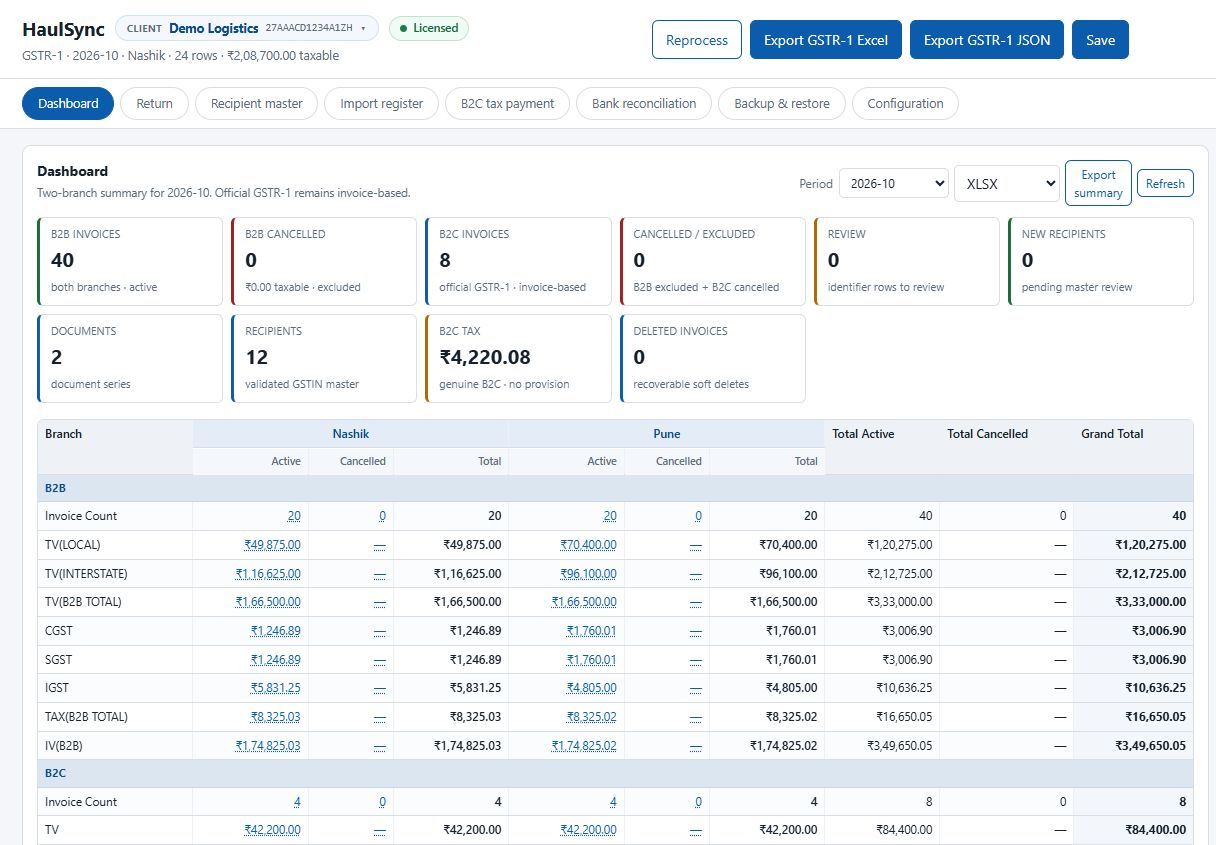
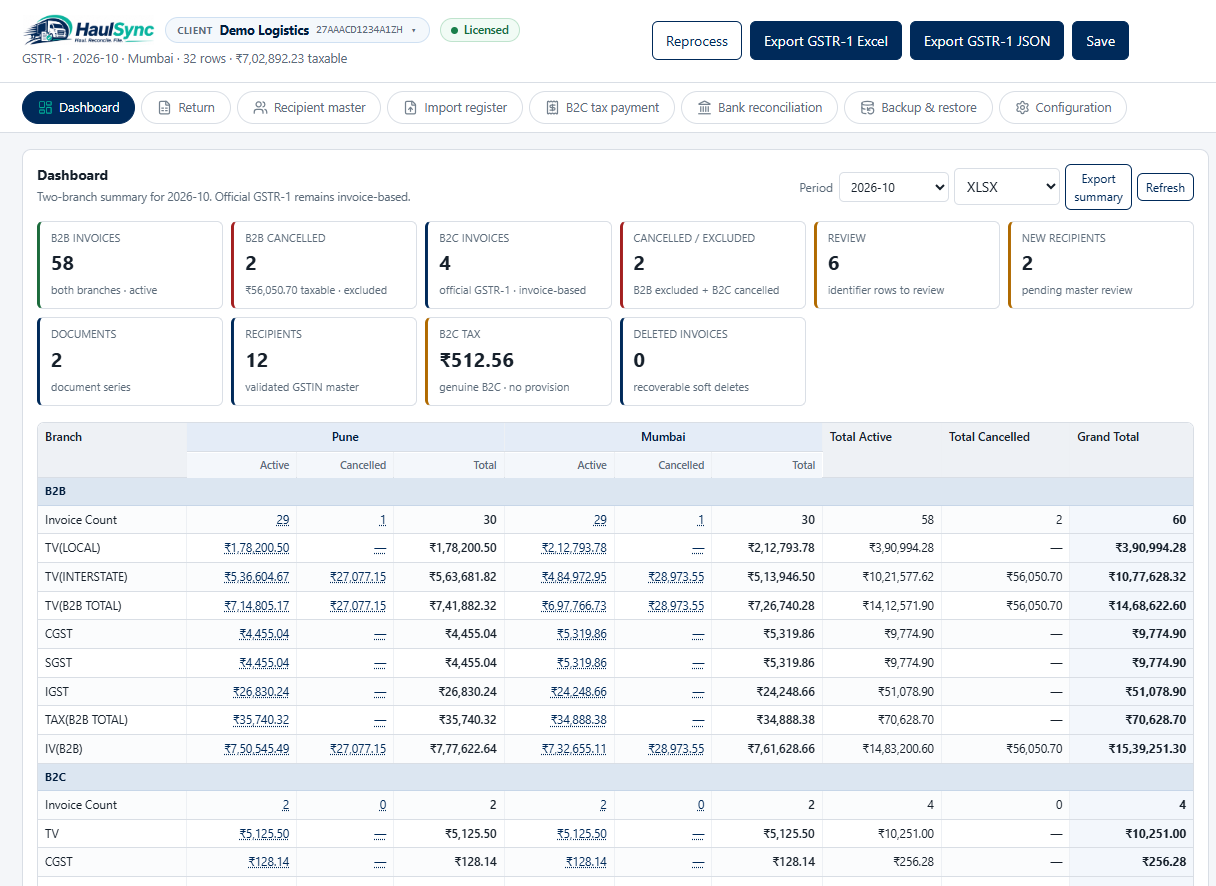
HaulSync 1.1.1 landing page with new branding

diff --git a/index.html b/index.html
@@ -8,82 +8,92 @@
 <meta property="og:title" content="HaulSync — GTA client work, kept separate">
 <meta property="og:description" content="Recipients, GSTR-1, bank reconciliation and backups for every GTA client, isolated and organised. Annual and monthly licenses.">
 <meta property="og:type" content="website">
-<meta property="og:image" content="assets/haulsync-dashboard.png">
-<link rel="icon" href="assets/favicon.svg" type="image/svg+xml">
+<meta property="og:image" content="https://yaiz2702.github.io/haulsync-releases/assets/haulsync-dashboard.png">
+<meta property="og:url" content="https://yaiz2702.github.io/haulsync-releases/">
+<meta name="theme-color" content="#002A5A">
+<link rel="icon" type="image/png" sizes="32x32" href="assets/favicon-32.png">
+<link rel="icon" type="image/png" sizes="16x16" href="assets/favicon-16.png">
+<link rel="apple-touch-icon" href="assets/apple-touch-icon.png">
 <style>
-:root{--ink:#17232f;--muted:#5c6b7a;--line:#d8e1ea;--soft:#f4f8fc;--accent:#1f6fb2;--accent-dark:#185d96;--good:#1a7f4b;--bg:#f4f7fb}
+:root{--navy:#002A5A;--teal:#00B098;--teal-dark:#008f7d;--ink:#22384d;--muted:#5f7183;--line:#dbe5ee;--soft:#f5f9fb;--accent:#002A5A;--accent-dark:#001c3d;--good:#1a7f4b;--bg:#f4f8fb}
 *{box-sizing:border-box}
 html{scroll-behavior:smooth}
 body{margin:0;background:var(--bg);color:var(--ink);font:15px/1.6 "Segoe UI",system-ui,-apple-system,sans-serif}
-a{color:var(--accent)}
+a{color:var(--teal-dark)}
 img{max-width:100%;height:auto}
 .wrap{max-width:1100px;margin:0 auto;padding:0 22px}
-header.pub{background:#17232f;color:#fff;padding:14px 0;position:sticky;top:0;z-index:20;box-shadow:0 1px 0 rgba(255,255,255,.06)}
+header.pub{background:#fff;border-bottom:1px solid var(--line);padding:13px 0;position:sticky;top:0;z-index:20}
 header.pub .wrap{display:flex;align-items:center;justify-content:space-between;gap:16px}
-.brand{font-size:20px;font-weight:700;letter-spacing:.01em;text-decoration:none;color:#fff}
-.brand span{color:#8fc3ef}
+.brand{display:inline-block;line-height:0}
+.brand-logo{display:block;height:38px;width:auto}
 nav.pub{display:flex;align-items:center;gap:18px;font-size:13px}
-nav.pub a{color:#c9d6e2;text-decoration:none}
-nav.pub a:hover{color:#fff}
+nav.pub a{color:var(--muted);text-decoration:none;font-weight:600}
+nav.pub a:hover{color:var(--navy)}
 .hero{padding:56px 0 20px}
 .hero-grid{display:grid;grid-template-columns:1.05fr .95fr;gap:40px;align-items:center}
-.pill{display:inline-block;background:#e8f2fc;color:#1b5f99;border:1px solid #c6ddf2;border-radius:999px;padding:4px 12px;font-size:12px;font-weight:600;margin-bottom:16px}
-h1{font-size:42px;line-height:1.1;margin:0 0 14px;letter-spacing:-.025em}
+.pill{display:inline-block;background:#e6faf7;color:#007a6a;border:1px solid #b8ebe2;border-radius:999px;padding:4px 12px;font-size:12px;font-weight:600;margin-bottom:16px}
+h1{font-size:42px;line-height:1.1;margin:0 0 14px;letter-spacing:-.025em;color:var(--navy)}
 .hero p.lead{font-size:17px;color:var(--muted);margin:0;max-width:560px}
 .hero-actions{display:flex;flex-wrap:wrap;gap:10px;margin-top:24px}
 .trust{display:flex;flex-wrap:wrap;gap:14px 22px;margin-top:18px;color:var(--muted);font-size:12.5px}
-.trust span::before{content:"✓";color:var(--good);font-weight:700;margin-right:6px}
-.shot{background:#fff;border:1px solid var(--line);border-radius:14px;padding:10px;box-shadow:0 18px 50px rgba(23,35,47,.14)}
+.trust span::before{content:"✓";color:var(--teal);font-weight:700;margin-right:6px}
+.shot{background:#fff;border:1px solid var(--line);border-radius:14px;padding:10px;box-shadow:0 18px 50px rgba(0,42,90,.14)}
 .shot img{display:block;border-radius:9px;border:1px solid #e6edf4}
 .shot figcaption{font-size:11.5px;color:var(--muted);text-align:center;padding:8px 4px 2px}
-.btn{display:inline-block;border:0;border-radius:8px;padding:11px 20px;font-size:14px;font-weight:600;cursor:pointer;text-decoration:none;background:var(--accent);color:#fff}
-.btn:hover{background:var(--accent-dark)}
-.btn.ghost{background:#fff;color:var(--accent);border:1px solid #b9d7f3}
-.btn.ghost:hover{background:#f2f8fe}
+.btn{display:inline-block;border:0;border-radius:8px;padding:11px 20px;font-size:14px;font-weight:600;cursor:pointer;text-decoration:none;background:var(--teal);color:#fff}
+.btn:hover{background:var(--teal-dark)}
+.btn.ghost{background:#fff;color:var(--navy);border:1px solid #c8d8e6}
+.btn.ghost:hover{background:var(--soft);border-color:var(--teal);color:#007a6a}
 .btn.large{padding:13px 24px;font-size:15px}
 section{padding:26px 0}
-.section-title{font-size:12px;letter-spacing:.09em;text-transform:uppercase;color:var(--muted);font-weight:700;margin:0 0 10px}
-h2{font-size:27px;line-height:1.2;margin:0 0 8px;letter-spacing:-.015em}
+.section-title{font-size:12px;letter-spacing:.09em;text-transform:uppercase;color:var(--teal-dark);font-weight:700;margin:0 0 10px}
+h2{font-size:27px;line-height:1.2;margin:0 0 8px;letter-spacing:-.015em;color:var(--navy)}
 .sub{color:var(--muted);margin:0 0 22px;max-width:720px}
 .grid{display:grid;grid-template-columns:repeat(auto-fit,minmax(280px,1fr));gap:16px}
-.card{background:#fff;border:1px solid var(--line);border-radius:12px;padding:22px;box-shadow:0 1px 2px rgba(23,35,47,.04)}
-.card h3{font-size:16px;margin:0 0 6px}
+.card{background:#fff;border:1px solid var(--line);border-radius:12px;padding:22px;box-shadow:0 1px 2px rgba(0,42,90,.04)}
+.card h3{font-size:16px;margin:0 0 6px;color:var(--navy)}
 .card p{margin:0;color:var(--muted);font-size:13.5px}
-.icon{width:38px;height:38px;border-radius:9px;background:#e8f2fc;color:#1b5f99;display:flex;align-items:center;justify-content:center;font-weight:700;margin-bottom:12px;font-size:15px}
+.icon{width:38px;height:38px;border-radius:9px;background:#e6faf7;color:#007a6a;display:flex;align-items:center;justify-content:center;margin-bottom:12px}
+.icon svg{width:19px;height:19px}
 .steps{display:grid;grid-template-columns:repeat(auto-fit,minmax(240px,1fr));gap:16px;counter-reset:step}
 .step{background:#fff;border:1px solid var(--line);border-radius:12px;padding:20px;position:relative}
-.step::before{counter-increment:step;content:counter(step);position:absolute;top:-12px;left:18px;width:26px;height:26px;border-radius:50%;background:var(--accent);color:#fff;font-size:13px;font-weight:700;display:flex;align-items:center;justify-content:center}
-.step h3{margin:8px 0 4px;font-size:15px}
+.step::before{counter-increment:step;content:counter(step);position:absolute;top:-12px;left:18px;width:26px;height:26px;border-radius:50%;background:var(--teal);color:#fff;font-size:13px;font-weight:700;display:flex;align-items:center;justify-content:center}
+.step h3{margin:8px 0 4px;font-size:15px;color:var(--navy)}
 .step p{margin:0;color:var(--muted);font-size:13px}
 .plans{display:grid;grid-template-columns:repeat(auto-fit,minmax(300px,1fr));gap:16px;margin-top:6px}
-.plan{background:#fff;border:1px solid #b9d7f3;border-radius:14px;padding:26px;position:relative;box-shadow:0 8px 30px rgba(31,111,178,.08)}
+.plan{background:#fff;border:1px solid #cfe8e4;border-top:3px solid var(--teal);border-radius:14px;padding:26px;position:relative;box-shadow:0 8px 30px rgba(0,42,90,.07)}
 .plan .badge{position:absolute;top:18px;right:18px;background:#e5f6ec;color:#136b3c;border-radius:999px;padding:3px 10px;font-size:10.5px;font-weight:700;letter-spacing:.04em;text-transform:uppercase}
-.plan h3{margin:0 0 4px;font-size:18px}
+.plan h3{margin:0 0 4px;font-size:18px;color:var(--navy)}
 .plan .desc{color:var(--muted);font-size:13px;margin:0}
-.price{font-size:38px;font-weight:700;letter-spacing:-.02em;margin:14px 0 2px}
+.price{font-size:38px;font-weight:700;letter-spacing:-.02em;margin:14px 0 2px;color:var(--navy)}
 .price small{font-size:14px;font-weight:400;color:var(--muted)}
 .plan ul{margin:14px 0 22px;padding-left:18px;color:var(--muted);font-size:13.5px}
 .plan li{margin:6px 0}
-.download-box{background:var(--soft);border:1px solid #cfe0ef;border-radius:10px;padding:18px;margin-top:14px}
+.download-box{background:var(--soft);border:1px solid #cfe8e4;border-radius:10px;padding:18px;margin-top:14px}
 .download-box p{margin:6px 0}
+.download-head{display:flex;align-items:center;gap:14px;margin:4px 0 12px}
+.download-head p{margin:2px 0}
+.app-icon{width:60px;height:60px;border-radius:12px;flex:0 0 auto}
 .checksum{font-family:Consolas,ui-monospace,monospace;font-size:11px;word-break:break-all;color:var(--muted)}
 .faq details{background:#fff;border:1px solid var(--line);border-radius:10px;padding:14px 18px;margin-bottom:10px}
-.faq summary{cursor:pointer;font-weight:600;font-size:14px}
+.faq summary{cursor:pointer;font-weight:600;font-size:14px;color:var(--navy)}
 .faq p{margin:8px 0 0;color:var(--muted);font-size:13.5px}
 footer.pub{border-top:1px solid var(--line);margin-top:36px;padding:24px 0 40px;color:var(--muted);font-size:12.5px}
 footer.pub .wrap{display:flex;flex-wrap:wrap;justify-content:space-between;gap:14px}
 footer.pub a{color:var(--muted);text-decoration:none;margin-right:16px}
-footer.pub a:hover{color:var(--accent)}
-.notice{border:1px solid #c6ddf2;background:#eef7ff;color:#174a74;border-radius:8px;padding:12px 14px;margin:14px 0;font-size:13px}
+footer.pub a:hover{color:var(--navy)}
+.footer-brand{display:inline-flex;align-items:center;gap:7px;color:var(--navy);font-weight:600}
+.footer-brand img{border-radius:4px}
+.notice{border:1px solid #b8ebe2;background:#f0fbf8;color:#075e55;border-radius:8px;padding:12px 14px;margin:14px 0;font-size:13px}
 .notice.warn{border-color:#f0d7a8;background:#fff8e9;color:#6b4b12}
 @media(max-width:860px){.hero-grid{grid-template-columns:1fr;gap:26px}h1{font-size:34px}.hero{padding-top:38px}}
-@media(max-width:620px){h1{font-size:30px}h2{font-size:23px}nav.pub a:not(.btn){display:none}.price{font-size:32px}}
+@media(max-width:620px){h1{font-size:30px}h2{font-size:23px}nav.pub a:not(.btn){display:none}.price{font-size:32px}.brand-logo{height:31px}}
 </style>
 </head>
 <body>
 <header class="pub">
   <div class="wrap">
-    <a class="brand" href="#">Haul<span>Sync</span></a>
+    <a class="brand" href="#" aria-label="HaulSync"><img class="brand-logo" src="assets/wordmark.png" alt="HaulSync"></a>
     <nav class="pub">
       <a href="#features">Features</a>
       <a href="#pricing">Pricing</a>
@@ -111,7 +121,7 @@ footer.pub a:hover{color:var(--accent)}
         </div>
       </div>
       <figure class="shot" style="margin:0">
-        <img src="assets/haulsync-dashboard.png" alt="HaulSync dashboard showing a demo client's recipients, runs and reconciliation summary" width="1216" height="845">
+        <img src="assets/haulsync-dashboard.png" alt="HaulSync dashboard showing a demo client's recipients, runs and reconciliation summary" width="1216" height="886">
         <figcaption>Demo data shown. Your clients stay on your computer.</figcaption>
       </figure>
     </div>
@@ -123,12 +133,12 @@ footer.pub a:hover{color:var(--accent)}
       <h2>One tool for the work you repeat every month</h2>
       <p class="sub">Stop juggling folders, spreadsheets and last month's copy. HaulSync keeps the routine in one place and each client's data apart.</p>
       <div class="grid">
-        <div class="card"><div class="icon">1</div><h3>Client isolation by design</h3><p>Each client has a separate database and folder. Recipients, runs, settings, bank data and backups never cross between clients.</p></div>
-        <div class="card"><div class="icon">2</div><h3>GSTR-1 without retyping</h3><p>Validated recipient master, invoice series and the official workbook template. Corrections and alternate names are reused next month.</p></div>
-        <div class="card"><div class="icon">3</div><h3>Bank reconciliation</h3><p>Upload text-based bank PDFs, match receipts to invoices, review exceptions and keep a clear transaction trail per client.</p></div>
-        <div class="card"><div class="icon">4</div><h3>Backups that stay local</h3><p>Per-client backups and restores, plus exports. Expired licenses still allow backup, restore and export.</p></div>
-        <div class="card"><div class="icon">5</div><h3>Archive, never delete</h3><p>Finished with a client? Archive the folder and restore it later. HaulSync keeps the data instead of hard-deleting it.</p></div>
-        <div class="card"><div class="icon">6</div><h3>Simple licensing</h3><p>One license covers unlimited clients on one computer. Activate online, work offline for 14 days, renew any time.</p></div>
+        <div class="card"><div class="icon"><svg viewBox="0 0 24 24" fill="none" stroke="currentColor" stroke-width="2" stroke-linecap="round" stroke-linejoin="round" aria-hidden="true"><path d="M20 13c0 5-3.5 7.5-7.66 8.95a1 1 0 0 1-.67-.01C7.5 20.5 4 18 4 13V6a1 1 0 0 1 1-1c2 0 4.5-1.2 6.24-2.72a1.17 1.17 0 0 1 1.52 0C14.51 3.81 17 5 19 5a1 1 0 0 1 1 1z"/><path d="m9 12 2 2 4-4"/></svg></div><h3>Client isolation by design</h3><p>Each client has a separate database and folder. Recipients, runs, settings, bank data and backups never cross between clients.</p></div>
+        <div class="card"><div class="icon"><svg viewBox="0 0 24 24" fill="none" stroke="currentColor" stroke-width="2" stroke-linecap="round" stroke-linejoin="round" aria-hidden="true"><path d="M6 22a2 2 0 0 1-2-2V4a2 2 0 0 1 2-2h8a2.4 2.4 0 0 1 1.704.706l3.588 3.588A2.4 2.4 0 0 1 20 8v12a2 2 0 0 1-2 2z"/><path d="M14 2v5a1 1 0 0 0 1 1h5"/><path d="M8 13h2"/><path d="M14 13h2"/><path d="M8 17h2"/><path d="M14 17h2"/></svg></div><h3>GSTR-1 without retyping</h3><p>Validated recipient master, invoice series and the official workbook template. Corrections and alternate names are reused next month.</p></div>
+        <div class="card"><div class="icon"><svg viewBox="0 0 24 24" fill="none" stroke="currentColor" stroke-width="2" stroke-linecap="round" stroke-linejoin="round" aria-hidden="true"><path d="M10 18v-7"/><path d="M11.119 2.205a2 2 0 0 1 1.762 0l7.84 3.846A.5.5 0 0 1 20.5 7h-17a.5.5 0 0 1-.22-.949z"/><path d="M14 18v-7"/><path d="M18 18v-7"/><path d="M3 22h18"/><path d="M6 18v-7"/></svg></div><h3>Bank reconciliation</h3><p>Upload text-based bank PDFs, match receipts to invoices, review exceptions and keep a clear transaction trail per client.</p></div>
+        <div class="card"><div class="icon"><svg viewBox="0 0 24 24" fill="none" stroke="currentColor" stroke-width="2" stroke-linecap="round" stroke-linejoin="round" aria-hidden="true"><ellipse cx="12" cy="5" rx="9" ry="3"/><path d="M3 12a9 3 0 0 0 5 2.69"/><path d="M21 9.3V5"/><path d="M3 5v14a9 3 0 0 0 6.47 2.88"/><path d="M12 12v4h4"/><path d="M13 20a5 5 0 0 0 9-3 4.5 4.5 0 0 0-4.5-4.5c-1.33 0-2.54.54-3.41 1.41L12 16"/></svg></div><h3>Backups that stay local</h3><p>Per-client backups and restores, plus exports. Expired licenses still allow backup, restore and export.</p></div>
+        <div class="card"><div class="icon"><svg viewBox="0 0 24 24" fill="none" stroke="currentColor" stroke-width="2" stroke-linecap="round" stroke-linejoin="round" aria-hidden="true"><rect width="20" height="5" x="2" y="3" rx="1"/><path d="M4 8v11a2 2 0 0 0 2 2h12a2 2 0 0 0 2-2V8"/><path d="M10 12h4"/></svg></div><h3>Archive, never delete</h3><p>Finished with a client? Archive the folder and restore it later. HaulSync keeps the data instead of hard-deleting it.</p></div>
+        <div class="card"><div class="icon"><svg viewBox="0 0 24 24" fill="none" stroke="currentColor" stroke-width="2" stroke-linecap="round" stroke-linejoin="round" aria-hidden="true"><path d="M2.586 17.414A2 2 0 0 0 2 18.828V21a1 1 0 0 0 1 1h3a1 1 0 0 0 1-1v-1a1 1 0 0 1 1-1h1a1 1 0 0 0 1-1v-1a1 1 0 0 1 1-1h.172a2 2 0 0 0 1.414-.586l.814-.814a6.5 6.5 0 1 0-4-4z"/><circle cx="16.5" cy="7.5" r=".5" fill="currentColor"/></svg></div><h3>Simple licensing</h3><p>One license covers unlimited clients on one computer. Activate online, work offline for 14 days, renew any time.</p></div>
       </div>
     </div>
   </section>
@@ -187,12 +197,15 @@ footer.pub a:hover{color:var(--accent)}
       <h2>Install HaulSync for Windows</h2>
       <p class="sub">The installer is per-user and does not need an administrator account. It installs the app, not Python, and keeps your client data outside the program folder.</p>
       <div class="card">
+        <div class="download-head">
+          <img class="app-icon" src="assets/app-icon-256.png" alt="HaulSync app icon">
+          <div><b>HaulSync for Windows</b><p class="hint">Windows 10 or 11, 64-bit · version 1.1.1 · per-user install</p></div>
+        </div>
         <p><a class="btn large" href="https://github.com/yaiz2702/haulsync-releases/releases/latest/download/HaulSync-Setup.exe">Download HaulSync-Setup.exe</a>
            <a class="btn ghost large" href="https://github.com/yaiz2702/haulsync-releases/releases">All releases</a></p>
         <div class="download-box">
-          <p><b>Windows 10 or 11, 64-bit</b> · version 1.1.0 · per-user install</p>
-          <p class="hint">The installer is not code-signed yet, so Windows SmartScreen may show a warning. Choose <b>More info</b>, then <b>Run anyway</b>. The SHA-256 checksum is published below and with every release.</p>
-          <p class="checksum">SHA-256: c874ef59cc4b9daf010b070f2ce80567c3be4401d713bbe96184b856a1eeddde</p>
+          <p>The installer is not code-signed yet, so Windows SmartScreen may show a warning. Choose <b>More info</b>, then <b>Run anyway</b>. The SHA-256 checksum is published below and with every release.</p>
+          <p class="checksum">SHA-256: 3a1cf52822217e2b1e6ae4a0bf402f5e900c627c87c9679417cfcba75126020b</p>
         </div>
         <p style="margin-top:14px"><b>Where your data lives:</b> program in <span class="checksum">%LOCALAPPDATA%\Programs\HaulSync</span>; clients, backups and logs in <span class="checksum">%LOCALAPPDATA%\HaulSync</span>. Uninstalling keeps your data and activation.</p>
       </div>
@@ -215,7 +228,7 @@ footer.pub a:hover{color:var(--accent)}
 
 <footer class="pub">
   <div class="wrap">
-    <div><b>HaulSync</b> · Haul. Reconcile. File.</div>
+    <div class="footer-brand"><img src="assets/favicon-32.png" alt="" width="16" height="16"> HaulSync · Haul. Reconcile. File.</div>
     <div>
       <a href="https://yasir.tailab7a7c.ts.net">Store</a>
       <a href="https://github.com/yaiz2702/haulsync-releases/releases">Releases</a>
